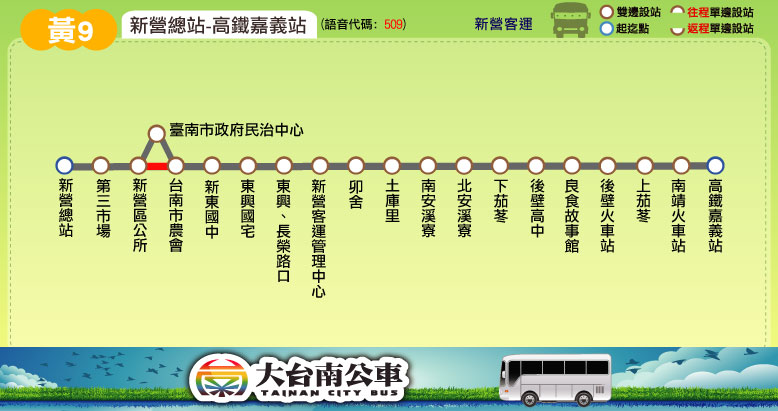
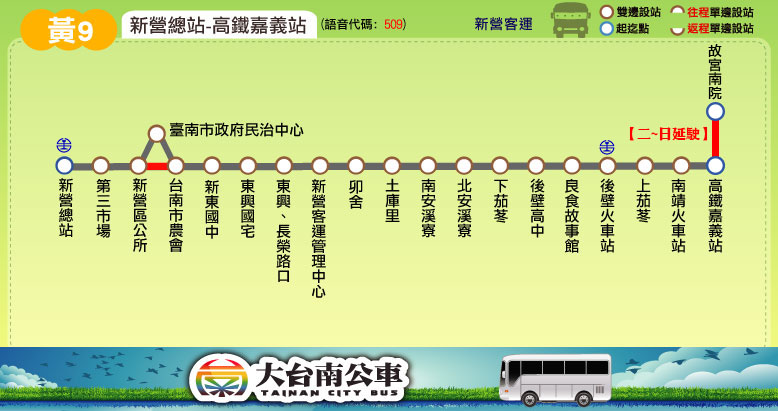
更新時刻表：「【黃9】新營－高鐵嘉義站」自105年11月4日起延駛至故宮南院

Changed region(s): [[0.7712, 0.0876, 0.9563, 0.438], [0.0617, 0.3212, 0.0925, 0.3796]]

diff --git a/route/fare_and_time/yellow_9.js b/route/fare_and_time/yellow_9.js
@@ -19,11 +19,14 @@ yellow_9_fare = [
 // format = [time at the start stop] or
 // [time, other] or
 // [time, start_stop, end_stop, other]
-yellow_9_main_stop_name = ["新營","臺南市政府<br />民治中心","南安<br />溪寮","後壁<br />高中","後壁<br />火車站","上茄苳","南靖<br />火車站","高鐵<br />嘉義站"];
-yellow_9_main_stop_time_consume = [0, 3, 11, 16, 17, 21, 24, 40];
-yellow_9_important_stop = [0, 4, 7]; // 新營, 後壁火車站, 高鐵嘉義站
+yellow_9_main_stop_name = ["新營","臺南市政府<br />民治中心","南安<br />溪寮","後壁<br />高中","後壁<br />火車站","上茄苳","南靖<br />火車站","高鐵<br />嘉義站","故宮南院<br /><span style='color:red;'>【11/4起】</span>"];
+yellow_9_main_stop_time_consume = [0, 3, 11, 16, 17, 21, 24, 40, 50];
+yellow_9_important_stop = [0, 4, 7, 8]; // 新營, 後壁火車站, 高鐵嘉義站, 故宮南院
+var start_stop = 0; // 新營
+var skip_stop = 1; // 臺南市政府民治中心
 var stop_1 = 5; // 上茄苳
-yellow_9_time_go = [["06:00",[1,'W']],["06:40",[[stop_1,5,stop_1+1,5]]],["07:00"],["08:00"],["09:00"],["10:00"],["11:00"],["12:00"],["13:00"],["14:00"],["15:00"],
-["16:00"],["17:00",[[stop_1,5,stop_1+1,5]]],["17:40",['五']],["18:00"],["18:40",[1,'五']],["19:00",[1]],["19:40",[1,'五']],["20:00",[1]],["20:40",[1,'五']]];
-yellow_9_time_return = [["07:15",['W']],["07:55"],["08:25"],["09:25"],["10:25"],["11:25"],["12:25"],["13:25"],["14:25"],["15:25"],["16:25"],
-["17:25"],["18:25",[1]],["19:00",[1,'五']],["19:25",[1]],["20:00",[1,'五']],["20:25",[1]],["21:00",[1,'五']],["21:25",[1]],["22:00",[1,'五']]];
+var hsr_chiayi = 7;
+yellow_9_time_go = [["06:00",start_stop,hsr_chiayi,[skip_stop,'W']],["06:40",start_stop,hsr_chiayi,[[stop_1,5,stop_1+1,5]]],["07:00",start_stop,hsr_chiayi],["08:00"],["09:00"],["10:00"],["11:00"],["12:00"],["13:00"],["14:00"],["15:00"],
+["16:00"],["17:00",[[stop_1,5,stop_1+1,5]]],["17:40",start_stop,hsr_chiayi,['五']],["18:00",start_stop,hsr_chiayi],["18:40",start_stop,hsr_chiayi,[skip_stop,'五']],["19:00",start_stop,hsr_chiayi,[skip_stop]],["19:40",start_stop,hsr_chiayi,[skip_stop,'五']],["20:00",start_stop,hsr_chiayi,[skip_stop]],["20:40",start_stop,hsr_chiayi,[skip_stop,'五']]];
+yellow_9_time_return = [["07:15",hsr_chiayi,start_stop,['W']],["07:55",hsr_chiayi,start_stop],["08:25",hsr_chiayi,start_stop],["09:10",[[hsr_chiayi,5]]],["10:10",[[hsr_chiayi,5]]],["11:10",[[hsr_chiayi,5]]],["12:10",[[hsr_chiayi,5]]],["13:10",[[hsr_chiayi,5]]],["14:10",[[hsr_chiayi,5]]],["15:10",[[hsr_chiayi,5]]],["16:10",[[hsr_chiayi,5]]],
+["17:10",[[hsr_chiayi,5]]],["18:10",[skip_stop,[hsr_chiayi,5]]],["19:00",hsr_chiayi,start_stop,[skip_stop,'五']],["19:25",hsr_chiayi,start_stop,[skip_stop]],["20:00",hsr_chiayi,start_stop,[skip_stop,'五']],["20:25",hsr_chiayi,start_stop,[skip_stop]],["21:00",hsr_chiayi,start_stop,[skip_stop,'五']],["21:25",hsr_chiayi,start_stop,[skip_stop]],["22:00",hsr_chiayi,start_stop,[skip_stop,'五']]];

diff --git a/tools/route_infor.js b/tools/route_infor.js
@@ -79,7 +79,7 @@ yellow_5_route = '新營 ─ 紅毛厝 ─ 下營';
 yellow_6_route = '新營 ─ 白沙屯 ─ 後壁火車站';
 yellow_6_1_route = '新營 ─ 菁寮 ─ 土溝 ─ 白河<br /><div class="sub_title">假日農村樂活公車</div>';
 yellow_7_route = '新營 ─ 東山 ─ 青山 ─ 仙公廟';
-yellow_9_route = '新營 ─ 後壁火車站 ─ 高鐵嘉義站';
+yellow_9_route = '新營 ─ 高鐵嘉義站 ─ 故宮南院';
 yellow_10_route = '後壁 ─ 白河 ─ 六重溪';
 yellow_10_1_route = '白河 ─ 六重溪 ─ 檳榔腳';
 yellow_11_route = '白河 ─ 東山 ─ 青山';
@@ -94,9 +94,9 @@ yellow_15_route = '白河 ─ 詔安厝';
 yellow_20_route = '麻豆 ─ 下營 ─ 林鳳營火車站';
 
 urban_0_route = '臺南火車站 ─ 體育公園 ─ 臺南火車站';
-urban_1_route = '臺南火車站 ─ 茄萣 ─ 興達港';
+urban_1_route = '臺南火車站 ─ 茄萣 ─ 興達遠洋漁港';
 urban_2_route = '崑山科大 ─ 安平 ─ 四草、三鯤鯓';
-urban_3_route = '海東國小 ─ 竹篙厝';
+urban_3_route = '海東國小 ─ 竹篙厝 ─ 復興國中';
 urban_5_route = '桂田酒店 ─ 市立醫院、大甲里';
 urban_6_route = '仁德轉運站 ─ 新興國宅 ─ 四鯤鯓';
 urban_7_route = '臺南火車站 ─ 康寧大學';
@@ -106,7 +106,7 @@ urban_11_route = '大成路口 ─ 城西里';
 urban_14_route = '臺南火車站 ─ 億載金城';
 urban_15_route = '奇美醫院 ─ 大成國中';
 urban_17_route = '安平原住民文化會館 ─ 興達港觀光魚市';
-urban_18_route = '臺南站 ─ 塭南里 ─ 臺灣歷史博物館';
+urban_18_route = '國民路 ─ 臺南站 ─ 塭南里 ─ 史博館';
 urban_19_route = '安平原住民文化會館 ─ 大灣高中';
 urban_20_route = '南紡購物中心 ─ 安南醫院 ─ 海東國小';
 urban_21_route = '臺南火車站 ─ 鹽行 ─ 永康工業區';

diff --git a/yellow/yellow_9.html b/yellow/yellow_9.html
@@ -20,7 +20,9 @@
 	block_route_map(null);
 	block_route_info(route_interval,'新營客運','1小時一班','里程計費','http://2384.tainan.gov.tw:8080/AGPSRemoteQuery3/ajaxBus.jsp?pathId=1509&locale=zh_TW');
 	block_fare(0, null);
-	block_time_schedule('新營','高鐵嘉義站',W_message + '；<font color="red">「五」</font>表示每週五行駛，逢連續假期則於休假前一天行駛');
+	block_time_schedule('新營','高鐵嘉義站/故宮南院',W_message + '；「<span style="color:red;">五</span>」表示每週五行駛，逢連續假期則於休假前一天行駛</h3>\
+		<br /><h3>「<span style="color: #003B5C;">臺南市政府民治中心</span>」停靠時間為：<span style="color: blue;">周一至周五 06:30~18:30</span></h3>\
+		<br /><h3>自105年11月4日起，每<span style="color:red;">周二至周日</span>部分班次延駛<span style="color:green;">故宮南院</span>');
 	block_transfer(transfer_hsinyin + transfer_houbi_railway_station + transfer_hsr_chiayi_station);
 	block_copyright();
 </script>
